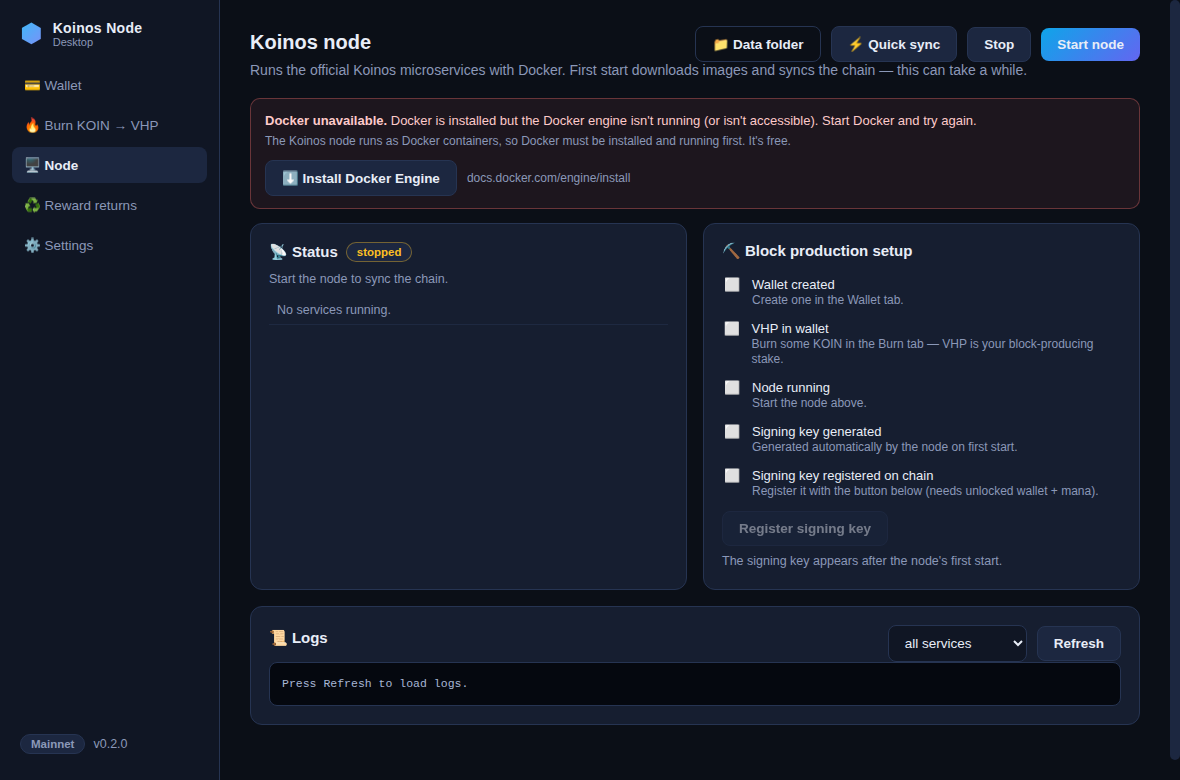
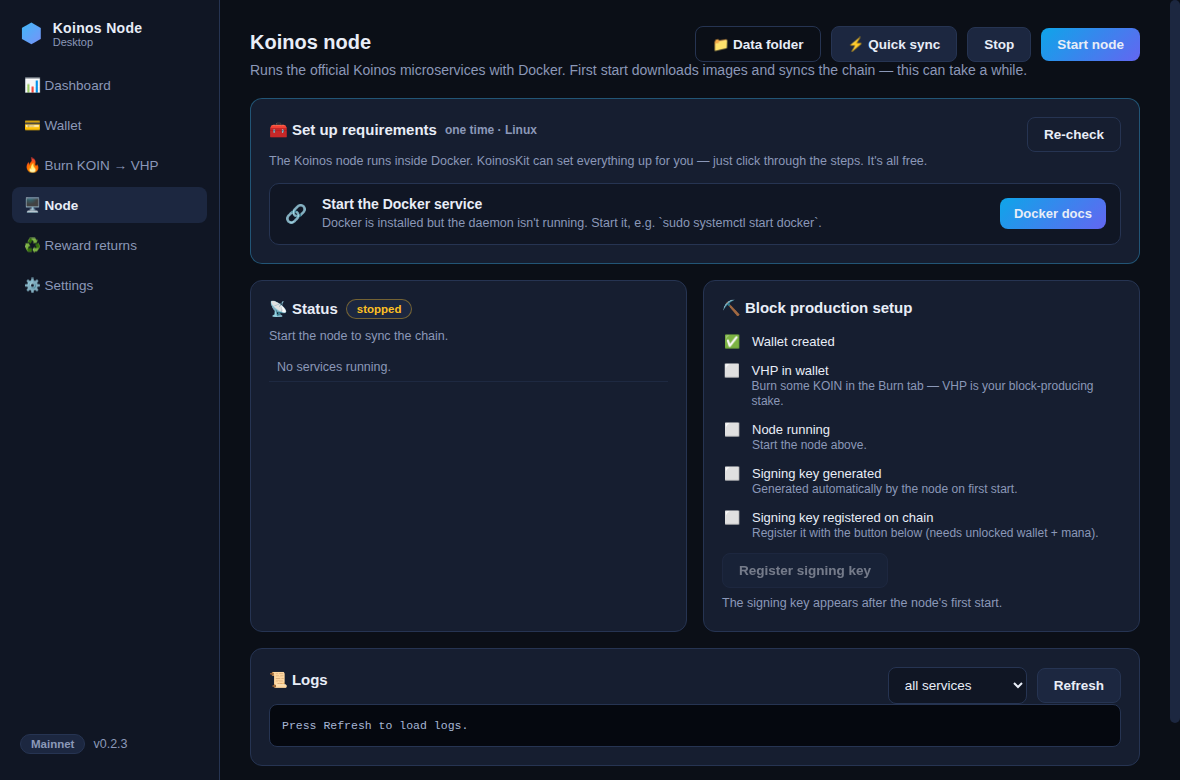
Homepage refresh: lead with the live dashboard + updated screenshots
- Hero now features the live Dashboard screenshot (running node, balances,
  block/reward feed) as the showpiece.
- Added 'Live dashboard' and 'Yours alone' feature cards; updated the
  reward-returns and node copy (guided Docker/WSL setup, on-chain-accurate
  rewards).
- Refreshed screenshots (dashboard, node, returns, wallet) to the current
  v0.2.x UI; OG image now the dashboard.
- Reworked the getting-started steps to reflect one-click setup (no
  PowerShell) and added FAQ entries on setup, reward accuracy, and
  auto-update.

Claude-Session: https://claude.ai/code/session_01T3hZ53x72eGD6AfS4e36Bi

diff --git a/index.html b/index.html
@@ -4,12 +4,12 @@
   <meta charset="UTF-8" />
   <meta name="viewport" content="width=device-width, initial-scale=1" />
   <title>KoinosKit — run a Koinos node, no command line</title>
-  <meta name="description" content="KoinosKit is a free desktop app that creates a Koinos wallet, burns KOIN to VHP, launches a block-producing Koinos node with Docker, and auto-returns a percentage of your block rewards." />
+  <meta name="description" content="KoinosKit is a free desktop app that creates a Koinos wallet, burns KOIN to VHP, launches a block-producing Koinos node, and auto-compounds your block rewards — with a live dashboard for everything." />
   <link rel="icon" type="image/png" href="img/icon.png" />
   <link rel="stylesheet" href="styles.css" />
   <meta property="og:title" content="KoinosKit — run a Koinos node, no command line" />
-  <meta property="og:description" content="Wallet, KOIN→VHP burning, one-click node, and automatic reward returns. Free and open source." />
-  <meta property="og:image" content="https://koinoskit.site/img/node.png" />
+  <meta property="og:description" content="Wallet, KOIN→VHP burning, one-click node, automatic reward returns, and a live dashboard. Free and open source." />
+  <meta property="og:image" content="https://koinoskit.site/img/dashboard.png" />
   <meta property="og:url" content="https://koinoskit.site/" />
 </head>
 <body>
@@ -26,9 +26,9 @@
   </nav>
   <div class="container hero-inner">
     <h1>Run a Koinos node.<br /><span class="grad">Earn KOIN. No command line.</span></h1>
-    <p class="sub">KoinosKit is a free desktop app that walks you from zero to producing blocks:
-    create a wallet, burn KOIN to VHP, launch the official Koinos node with one click, and
-    automatically re-invest a percentage of your rewards.</p>
+    <p class="sub">KoinosKit is a free desktop app that takes you from zero to producing blocks —
+    create a wallet, burn KOIN to VHP, launch the official Koinos node in one click, auto-compound
+    your rewards, and watch it all on a live dashboard.</p>
     <div class="cta">
       <a id="dl-primary" class="btn primary big" href="https://github.com/therexdev/Koinos-Node/releases/latest">⬇ Download<span id="dl-primary-label"></span></a>
       <a class="btn ghost big" href="https://github.com/therexdev/Koinos-Node/releases/latest" rel="noopener">All downloads</a>
@@ -39,6 +39,9 @@
       <a class="chip" id="dl-mac" href="#" hidden>macOS .dmg</a>
       <a class="chip" id="dl-linux" href="#" hidden>Linux .AppImage</a>
     </div>
+    <div class="hero-shot">
+      <img src="img/dashboard.png" alt="KoinosKit dashboard showing node status, balances, block rewards and a live activity feed" loading="lazy" />
+    </div>
   </div>
 </header>
 
@@ -46,14 +49,18 @@
   <section id="features" class="container">
     <h2>Everything a solo block producer needs</h2>
     <div class="cards">
+      <div class="card"><div class="ico">📊</div><h3>Live dashboard</h3>
+        <p>One screen for everything: node status with a start/stop switch, balances and net worth, lifetime blocks, rewards and profit, plus a feed of every block showing the VHP burned, reward, and profit.</p></div>
       <div class="card"><div class="ico">💳</div><h3>Wallet in seconds</h3>
         <p>Generate a Koinos wallet locally — encrypted with your password, keys never leave your computer. Import an existing key any time, back up with one click.</p></div>
       <div class="card"><div class="ico">🔥</div><h3>Burn KOIN → VHP</h3>
         <p>Virtual Hash Power is your stake for producing blocks. Burn safely with a built-in liquid-KOIN buffer so you always keep mana to transact.</p></div>
       <div class="card"><div class="ico">🖥</div><h3>One-click node</h3>
-        <p>Runs the official Koinos microservices via Docker. Guided checklist covers everything — including registering your block-signing key on chain.</p></div>
+        <p>Runs the official Koinos node stack. A guided setup even installs Docker and WSL for you, and registers your block-signing key on chain — no terminal required.</p></div>
       <div class="card"><div class="ico">♻</div><h3>Auto reward returns</h3>
-        <p>Pick a percentage of block rewards to return automatically: compound into VHP to keep producing, or send to any address. Full history included.</p></div>
+        <p>Auto-compound a percentage of your block rewards back into VHP to keep producing, or send them to any address. Rewards are read from on-chain events, so the numbers are always accurate.</p></div>
+      <div class="card"><div class="ico">🔒</div><h3>Yours alone</h3>
+        <p>No accounts, no servers, no telemetry. Everything runs on your machine and talks only to the Koinos network. Free and fully open source.</p></div>
     </div>
     <div class="callout">
       <b>⚡ Quick sync built in.</b> Skip days of initial syncing — KoinosKit restores the official
@@ -62,25 +69,22 @@
   </section>
 
   <section class="shots container">
-    <figure><img src="img/wallet.png" alt="KoinosKit wallet screen" loading="lazy" /><figcaption>Wallet setup</figcaption></figure>
-    <figure><img src="img/node.png" alt="KoinosKit node control screen" loading="lazy" /><figcaption>Node control &amp; block production checklist</figcaption></figure>
-    <figure><img src="img/returns.png" alt="KoinosKit reward returns screen" loading="lazy" /><figcaption>Automatic reward returns</figcaption></figure>
+    <figure><img src="img/node.png" alt="KoinosKit node control and guided setup" loading="lazy" /><figcaption>Guided node setup &amp; block-production checklist</figcaption></figure>
+    <figure><img src="img/returns.png" alt="KoinosKit reward returns screen" loading="lazy" /><figcaption>Automatic reward compounding</figcaption></figure>
+    <figure><img src="img/wallet.png" alt="KoinosKit wallet screen" loading="lazy" /><figcaption>Local, encrypted wallet</figcaption></figure>
   </section>
 
   <section id="start" class="container">
-    <h2>Get started in 7 steps</h2>
+    <h2>Get started in 6 steps</h2>
     <ol class="steps">
-      <li><b>Install Docker.</b> The node runs as Docker containers.
-        <a href="https://www.docker.com/products/docker-desktop/" rel="noopener">Docker Desktop</a> for Windows/macOS,
-        <a href="https://docs.docker.com/engine/install/" rel="noopener">Docker Engine</a> for Linux.
-        <span class="hint">Windows: Docker needs WSL 2 — if it complains, run <code>wsl --install --no-distribution</code> in an admin PowerShell and reboot.</span></li>
-      <li><b>Install KoinosKit.</b> Download above and run the installer.
-        <span class="hint">Windows SmartScreen shows an "unknown publisher" warning because the free build is unsigned — click <i>More info → Run anyway</i>. On macOS, right-click the app → Open the first time.</span></li>
+      <li><b>Download &amp; install KoinosKit.</b> Grab the installer for your OS above and run it.
+        <span class="hint">The builds are unsigned, so Windows SmartScreen shows an "unknown publisher" notice — click <i>More info → Run anyway</i>. On macOS, right-click the app → Open the first time.</span></li>
+      <li><b>Let the app set up Docker for you.</b> The node runs in Docker; on the Node tab, the guided setup installs Docker Desktop (and WSL on Windows) with one-click buttons and live detection — no PowerShell, no hunting for downloads.
+        <span class="hint">On Linux, Docker Engine is installed from your distro; the app links the official guide.</span></li>
       <li><b>Create your wallet</b> and write down the private-key backup it shows you. Store it offline — it's the only way to recover your funds.</li>
-      <li><b>Fund it with KOIN</b> from an exchange, then <b>burn most of it to VHP</b> in the Burn tab. Keep ~10 KOIN liquid for mana (the Max button does this for you).</li>
-      <li><b>Start the node</b> (Node tab) with block production enabled, and use <b>⚡ Quick sync</b> to restore the official snapshot instead of syncing from scratch. Budget ~160&nbsp;GB free disk.</li>
-      <li><b>Register your signing key.</b> One click in the node checklist once the node has started.</li>
-      <li><b>Set your return percentage</b> in the Reward returns tab — e.g. compound 50% of rewards back into VHP. Done: your node earns while you sleep.</li>
+      <li><b>Fund it with KOIN</b>, then <b>burn most of it to VHP</b> in the Burn tab. Keep a little KOIN liquid for mana (the Max button does this for you).</li>
+      <li><b>Start the node</b> with block production enabled and use <b>⚡ Quick sync</b> to catch up in hours, then <b>register your signing key</b> — one click in the checklist. Budget ~160&nbsp;GB free disk.</li>
+      <li><b>Set your return percentage</b> in the Reward returns tab (e.g. compound 90% back into VHP), and watch it all on the Dashboard. Done — your node earns while you sleep.</li>
     </ol>
   </section>
 
@@ -88,18 +92,20 @@
     <h2>FAQ</h2>
     <details><summary>Is it safe? Where are my keys?</summary>
       <p>Your private key is generated on your machine, encrypted with your password (scrypt + AES-256-GCM), and never leaves it. There's no server, no telemetry — the app talks only to the Koinos RPC you configure. The code is open source on <a href="https://github.com/therexdev/Koinos-Node" rel="noopener">GitHub</a>, so anyone can audit it.</p></details>
+    <details><summary>Do I need to use the command line or install Docker myself?</summary>
+      <p>No. On Windows and macOS the app's guided setup installs Docker (and WSL on Windows) for you with one-click buttons — you never open a terminal. On Linux, Docker Engine is a standard package install and the app links the official guide.</p></details>
+    <details><summary>How are rewards and profit calculated?</summary>
+      <p>Straight from the blockchain. KoinosKit reads the actual block-reward and VHP-burn events your node produces, so the Dashboard and Reward-returns tabs show real numbers — deposits or manual burns are never mistaken for rewards. Producing a block burns some VHP and mints KOIN back to you plus a small premium; "profit" is rewards minus the VHP spent.</p></details>
     <details><summary>Why does Windows warn about an unknown publisher?</summary>
       <p>The installers aren't code-signed (certificates cost hundreds of dollars a year). The warning is expected for unsigned open-source apps: click <i>More info → Run anyway</i>. You can also verify what you're running by building from source.</p></details>
     <details><summary>How much KOIN do I need to produce blocks?</summary>
-      <p>Any amount of VHP participates, but more VHP means more frequent blocks. Whatever you burn, keep some KOIN liquid (~10 is comfortable) — mana from liquid KOIN pays for your transactions, and it recharges over time.</p></details>
+      <p>Any amount of VHP participates, but more VHP means more frequent blocks. Whatever you burn, keep some KOIN liquid — mana from liquid KOIN pays for your transactions, and it recharges over time.</p></details>
     <details><summary>How much disk space and bandwidth?</summary>
       <p>The chain is tens of GB and grows. Quick sync downloads a ~60&nbsp;GB snapshot and needs roughly 160&nbsp;GB free during the restore (you can delete the rollback copy afterwards). A regular home connection is fine.</p></details>
     <details><summary>Does the node keep running if I close the app?</summary>
-      <p>Yes — the node lives in Docker and keeps producing with the app closed. Automatic reward returns, however, are signed locally, so they only execute while the app is open with the wallet unlocked; pending rewards simply accumulate until then.</p></details>
-    <details><summary>What rewards can I expect?</summary>
-      <p>Koinos targets roughly 2% annual inflation paid to producers, with a bonus for burners relative to non-participants — your share depends on your VHP versus the network total. Producing also consumes VHP over time; the compounding return mode exists exactly to keep topping it up.</p></details>
-    <details><summary>Is there a testnet mode?</summary>
-      <p>Yes — switch to Harbinger in Settings and grab free tKOIN from the faucet in the <a href="https://discord.koinos.io" rel="noopener">Koinos Discord</a> to try everything risk-free.</p></details>
+      <p>Yes — the node lives in Docker and keeps producing with the app closed. Automatic reward returns, however, are signed locally, so they only execute while the app is open with the wallet unlocked; pending returns simply accumulate until then.</p></details>
+    <details><summary>Does it update itself?</summary>
+      <p>Installed builds check for new releases on launch and update in the background, then offer to restart — so you stay on the latest version automatically.</p></details>
   </section>
 </main>
 

diff --git a/styles.css b/styles.css
@@ -78,6 +78,16 @@ h1 { font-size: clamp(30px, 5.2vw, 52px); line-height: 1.15; letter-spacing: -0.
 }
 .chip:hover { color: var(--text); border-color: var(--accent); text-decoration: none; }
 
+.hero-shot {
+  margin: 48px auto 0;
+  max-width: 960px;
+  border-radius: 14px;
+  border: 1px solid var(--border);
+  overflow: hidden;
+  box-shadow: 0 30px 80px rgba(0, 0, 0, 0.55), 0 0 0 1px rgba(56, 189, 248, 0.15);
+}
+.hero-shot img { display: block; width: 100%; height: auto; }
+
 /* sections */
 section { padding: 64px 0 8px; }
 h2 { font-size: 28px; margin-bottom: 26px; text-align: center; letter-spacing: -0.3px; }
